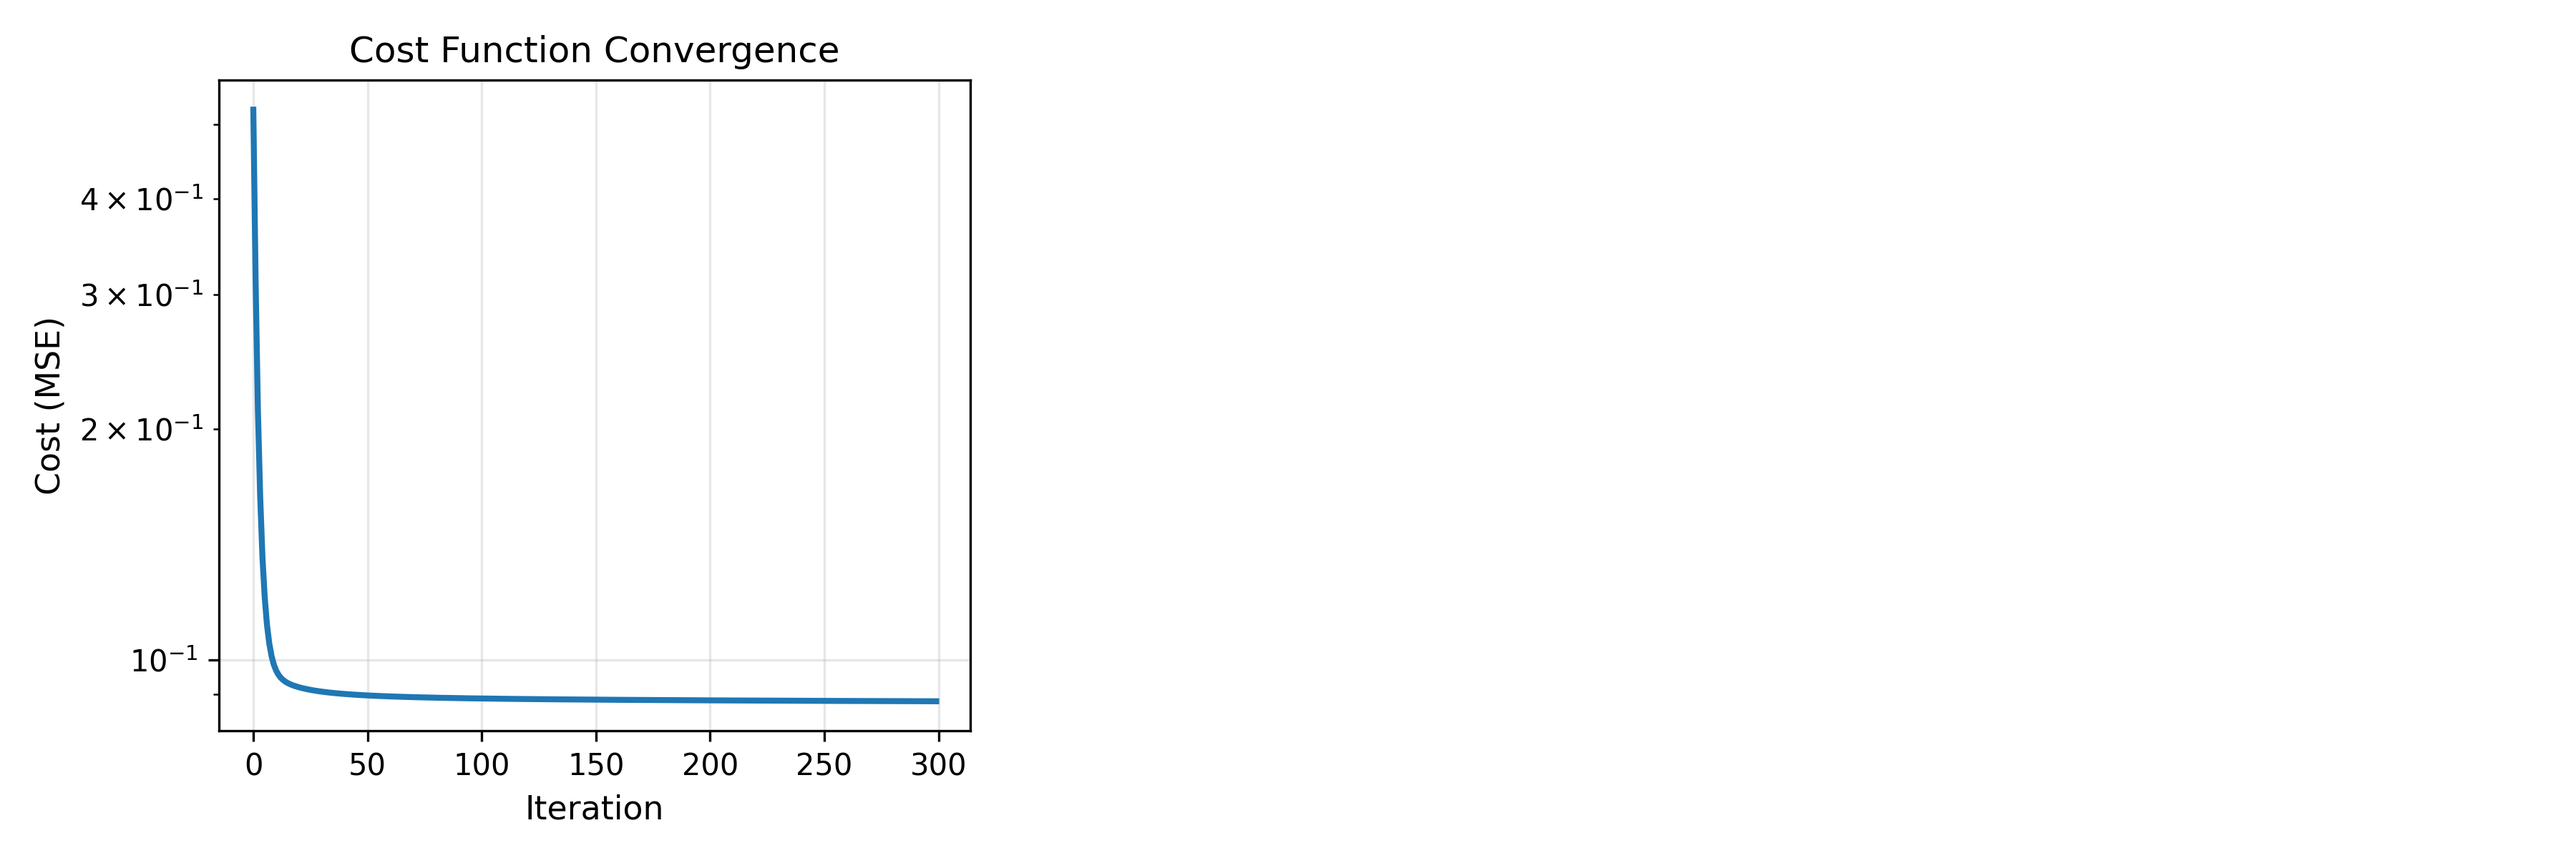
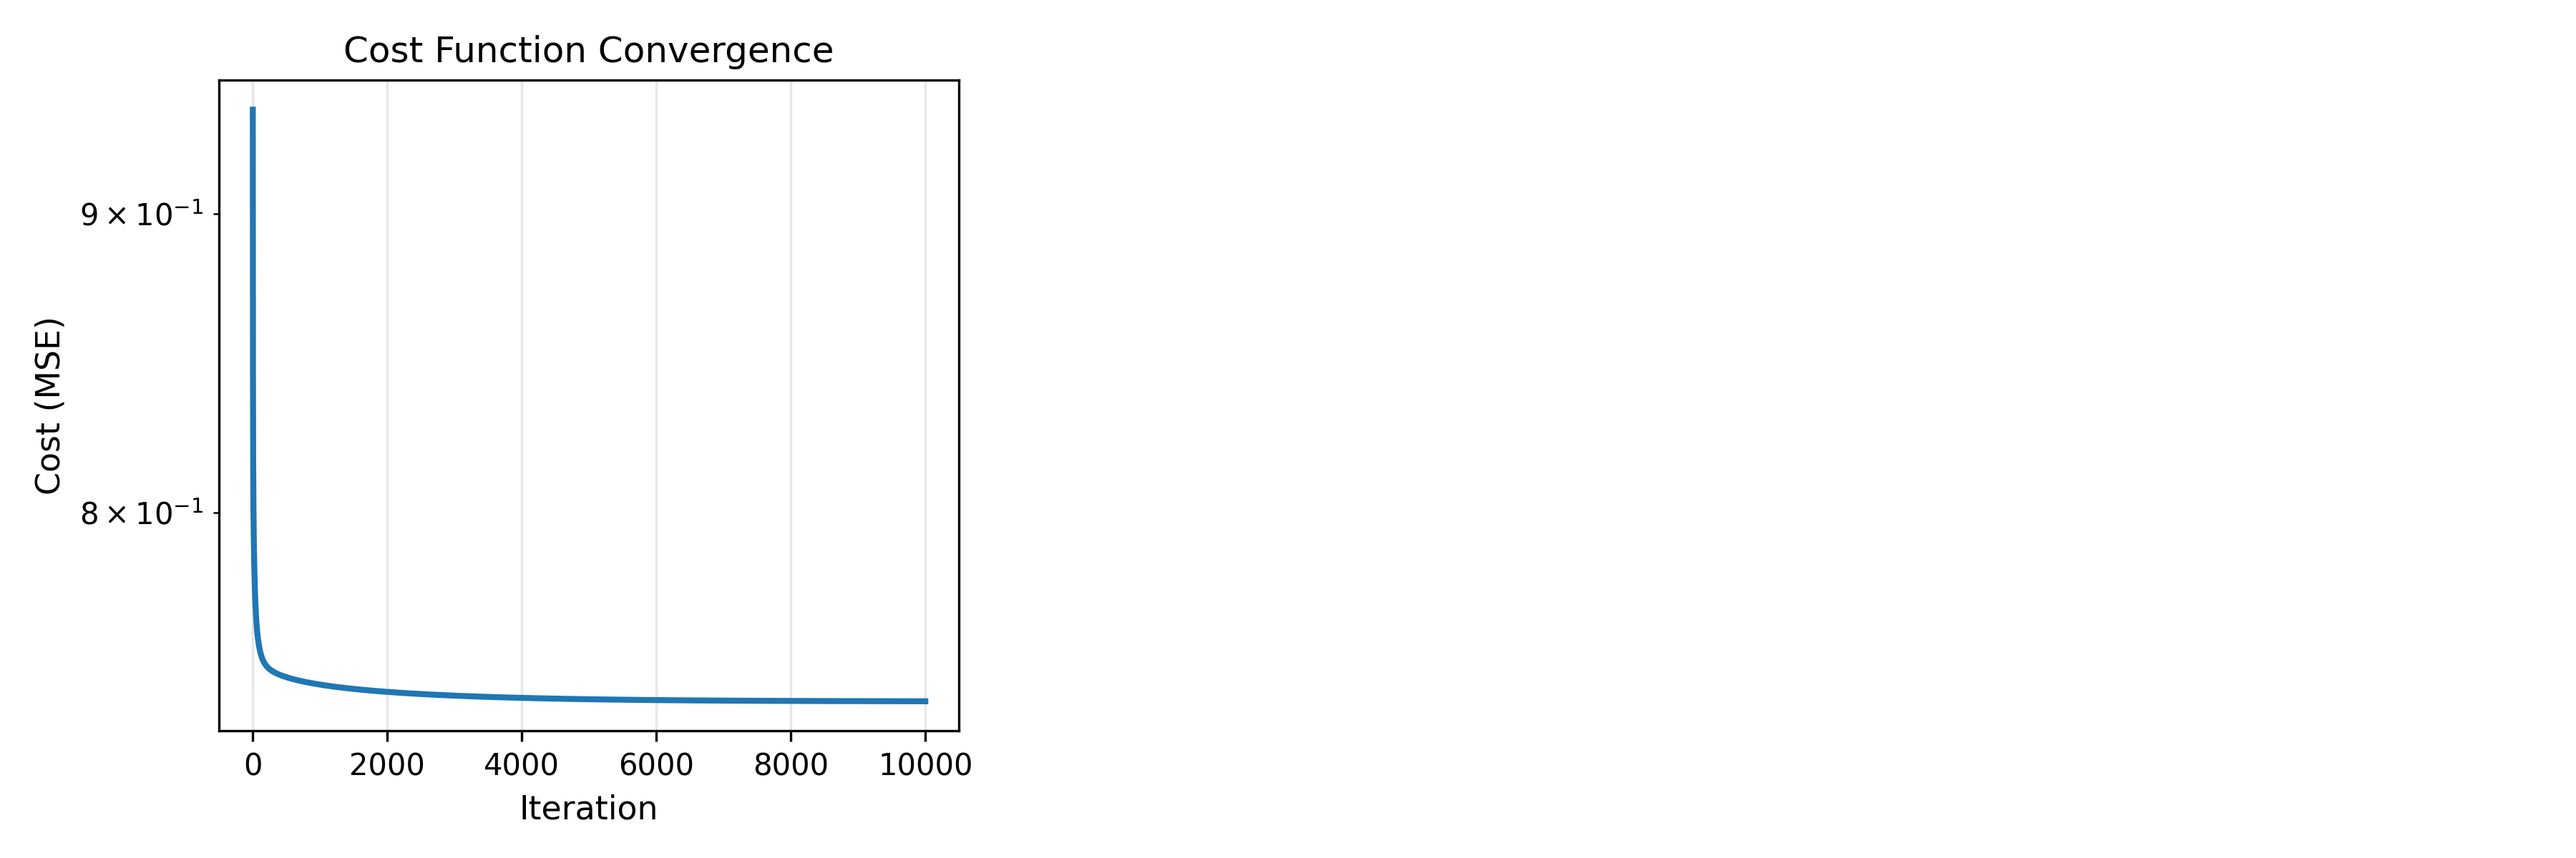
Finished

diff --git a/Lab01/lab01.py b/Lab01/lab01.py
@@ -168,6 +168,7 @@ Xsh_norm = Xsh_norm.drop(['total_UPDRS', 'subject#'], axis=1)
 
 # MODULAR DROP
 Xsh_norm = Xsh_norm.drop(['Jitter:DDP', 'Shimmer:DDA'], axis=1)
+Xsh_norm = Xsh_norm.drop(['motor_UPDRS'], axis=1)
 
 
 # Get final list of regressor names
@@ -241,7 +242,7 @@ print("ALGORITHM 2: STEEPEST DESCENT (GRADIENT DESCENT)")
 print("=" * 80)
 
 # Maximum number of iterations to prevent infinite loops
-max_iterations = 300  # Adjust based on convergence behavior
+max_iterations = 10000  # Adjust based on convergence behavior
 
 # # Convergence threshold: stop when gradient norm is below this value
 # tolerance = 1e-6  # TODO: Adjust for faster/slower convergence
